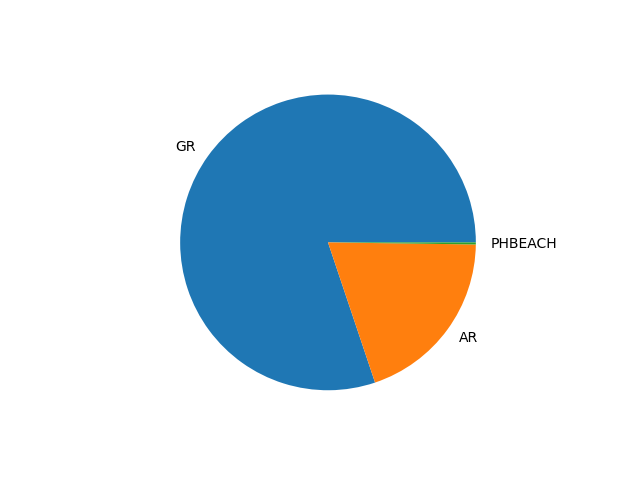
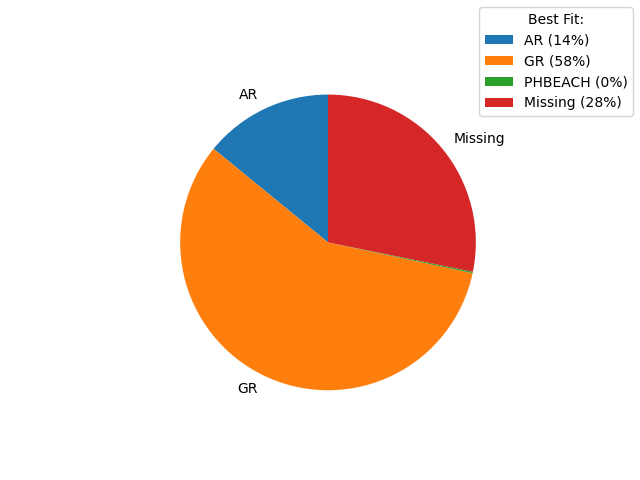
Improved figures

diff --git a/scripts/molecules.py b/scripts/molecules.py
@@ -151,7 +151,7 @@ class Monomer(BioObject):
                         contents.extend([data["rmsd"], data["aligned_residues"]])
                         self.superpositions[ref_name] = data
                     else:
-                        vars.failed_df.loc[self.id] = [self.id, "gesamt error", "are DISSIMILAR and cannot be reasonably aligned"]
+                        vars.failed_df.loc[self.id] = [self.id, "gesamt", "gesamt error", "are DISSIMILAR and cannot be reasonably aligned"]
                         contents.extend([99,0])
             vars.raw_monomers_df.loc[self.id] = contents
             self.raw_monomers_entries[self.id] = contents
@@ -172,7 +172,7 @@ class Monomer(BioObject):
             else:
                 coverages.append(data["coverage"])
                 pass
-        if len(finalists) >0:
+        if len(finalists) > 0:
             self.super_data = finalists[np.argmax(criteria)]
             data = self.super_data[1]
             contents = [self.id,self.super_data[0], round(data["coverage"]*100), data["rmsd"], round(data["identity"]*100)]
@@ -183,8 +183,8 @@ class Monomer(BioObject):
             self.super_path = data["out_path"]
         else:
             self.super_path = ""
-            vars.failed_df.loc[self.id] = [self.id, "no reference meets coverage (80%)", coverages]
-            self.failed_entries[self.id] = [self.id, "no reference meets coverage (80%)", coverages]
+            vars.failed_df.loc[self.id] = [self.id, "monomer", "no reference meets coverage (80%)", coverages]
+            self.failed_entries[self.id] = [self.id, "monomer", "no reference meets coverage (80%)", coverages]
 
 
 
@@ -207,8 +207,8 @@ class Dimer(BioObject):
 
 
         if monomer1.super_path is None or monomer2.super_path is None or monomer1.super_path == "" or monomer2.super_path == "":
-            vars.failed_df.loc[self.id] = [self.id, "Missing superposition", "At least one superposition is missing, {}:{}, {}:{}".format(monomer1.chain,monomer1.super_path,monomer2.chain,monomer2.super_path)]
-            self.failed_entries[self.id] = [self.id, "Missing superposition", "At least one superposition is missing, {}:{}, {}:{}".format(monomer1.chain,monomer1.super_path,monomer2.chain,monomer2.super_path)]
+            vars.failed_df.loc[self.id] = [self.id, "dimer", "Missing superposition", "At least one superposition is missing, {}:{}, {}:{}".format(monomer1.chain,monomer1.super_path,monomer2.chain,monomer2.super_path)]
+            self.failed_entries[self.id] = [self.id, "dimer", "Missing superposition", "At least one superposition is missing, {}:{}, {}:{}".format(monomer1.chain,monomer1.super_path,monomer2.chain,monomer2.super_path)]
             self.incomplete = True
         else:
             self.original_structure, self.replaced_structure, self.merged_structure = self.merge_structures(monomer1, monomer2)

diff --git a/scripts/visualisation.py b/scripts/visualisation.py
@@ -1,5 +1,5 @@
 import os
-from globals import root, local
+from globals import root, local, vars
 from utilities import *
 import pandas as pd
 import matplotlib.pyplot as plt
@@ -7,26 +7,55 @@ import matplotlib.pyplot as plt
 
 def generate_charts():
     root["charts"] = "charts"
+    sprint("Generating charts")
     if "monomers_df.csv" in os.listdir(root.dataframes):
         data = pd.read_csv(os.path.join(root.dataframes,"monomers_df.csv"))
 
-        labels = data["best_fit"].unique()
+        labels = list(data["best_fit"].unique())
         sizes = []
+        large_labels = []
         for label in labels:
             sizes.append(len(data[data["best_fit"] == label]))
+        print(sizes)
+        labels += ["Missing"]
+        failed_df = pd.read_csv(os.path.join(root.dataframes,"failed_df.csv"))
+        sizes.append(len(failed_df[failed_df["stage"] == "monomer"]))
 
+        print(sizes)
+        total = sum(sizes)
+        for index, (label, size) in enumerate(zip(labels, sizes)):
+            labels[index] = "{} ({}%)".format(label, round(size/total*100))
+            if round(size/total*100) >= 10:
+                large_labels.append(label)
+            else:
+                large_labels.append("")
+        print(labels)
+        print(sizes)
         fig, ax = plt.subplots()
-        ax.pie(sizes, labels=labels)
+        ax.pie(sizes, labels=large_labels, startangle=90)
+        fig.legend(title = "Best Fit:", labels = labels)
         fig.savefig(os.path.join(root.charts,"monomers_df.png"))
+        print1("monomers_df.png generated")
 
     if "failed_df.csv" in os.listdir(root.dataframes):
         data = pd.read_csv(os.path.join(root.dataframes,"failed_df.csv"))
 
-        labels = data["reason"].unique()
+        labels = data["error"].unique()
         sizes = []
         for label in labels:
-            sizes.append(len(data[data["reason"] == label]))
+            sizes.append(len(data[data["error"] == label]))
 
         fig, ax = plt.subplots()
         ax.pie(sizes, labels=labels)
         fig.savefig(os.path.join(root.charts,"failed_df.png"))
+
+if __name__ == "__main__":
+    import globals
+
+    globals.set_root("../")
+    if os.name == "nt":
+        globals.set_local("C:/Users/iainv/localdata/_local/projectB")
+    elif os.name == "posix":
+        globals.set_local("/localdata/iain/_local/projectB")
+    from globals import root, local, vars
+    generate_charts()

diff --git a/scripts/main.py b/scripts/main.py
@@ -1,9 +1,9 @@
 import os
-import globals
+
 from utilities import *
 import pandas as pd
 
-
+import globals
 globals.set_root("../")
 if os.name == "nt":
     globals.set_local("C:/Users/iainv/localdata/_local/projectB")
@@ -14,8 +14,13 @@ elif os.name == "posix":
 from globals import root, local, vars
 from dataframes import save_dfs
 
+
+
 PROCESS_ALL = False
 LARGE_DATASET = True # Delete all saved data previously to avoid errors
+
+
+
 
 from imports import *
 if "many_pdbs" not in local.list() and LARGE_DATASET:
@@ -47,7 +52,7 @@ vars["raw_monomers_df"] = pd.DataFrame(columns = columns_raw)
 colums_filtered = ["ID", "best_fit", "coverage (%)","rmsd", "identity (%)",  "Rx", "Ry", "Rz", "T"]
 vars["monomers_df"] = pd.DataFrame(columns = colums_filtered)
 
-vars["failed_df"] = pd.DataFrame(columns= ["ID", "reason", "details"])
+vars["failed_df"] = pd.DataFrame(columns= ["ID", "stage", "error", "details"])
 print1("Dataframes created")
 
 

diff --git a/scripts/alignments.py b/scripts/alignments.py
@@ -1,0 +1,4 @@
+import os
+import numpy as np
+import pandas as pd
+from Bio.Align import *
